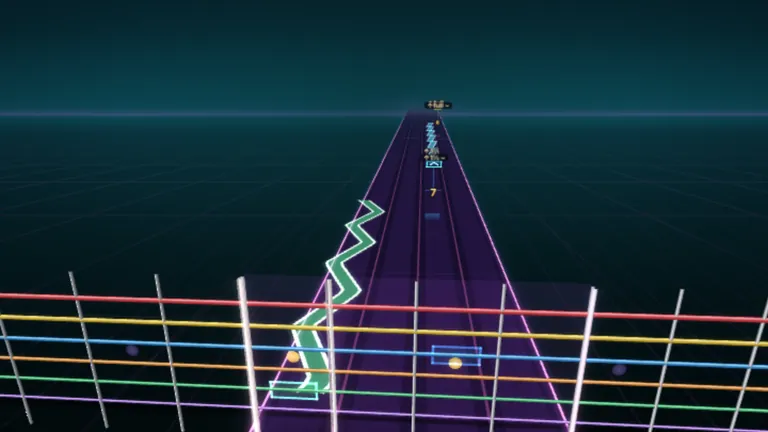
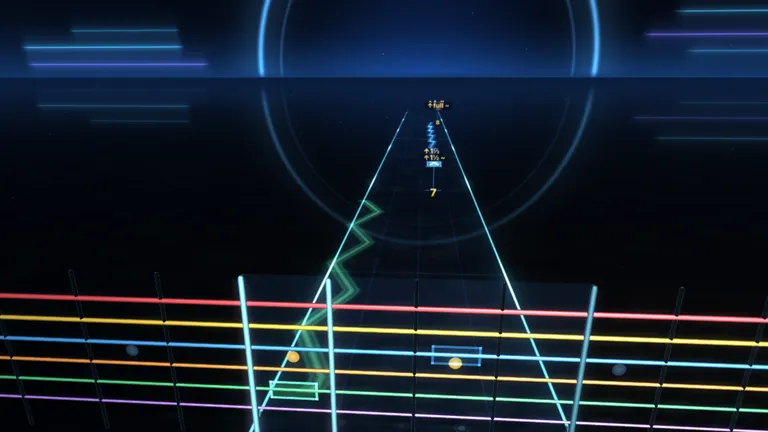
Neon Crystal: its pictures; the far bars only worked out near the horizon
Claude-Session: https://claude.ai/code/session_01VmPGRaCGY7hXPzbfxZBMtC

diff --git a/src/renderer/js/styles/neon.js b/src/renderer/js/styles/neon.js
@@ -36,7 +36,7 @@ vec3 ncEnv(vec3 rd, float full) {
   // flat plane ahead, so a straight bar stays straight on screen.
   vec2 pr = rd.xy / max(rd.z, 0.05);
   float pw = max(fwidth(pr.y), 1e-5);
-  for (int i = 0; i < 6; i++) {
+  if (pr.y > -0.01 && pr.y < 0.15) for (int i = 0; i < 6; i++) {
     float fi = float(i);
     float side = mod(fi, 2.0) < 0.5 ? -1.0 : 1.0;
     float h1 = hdHash(vec2(fi, 1.3));
